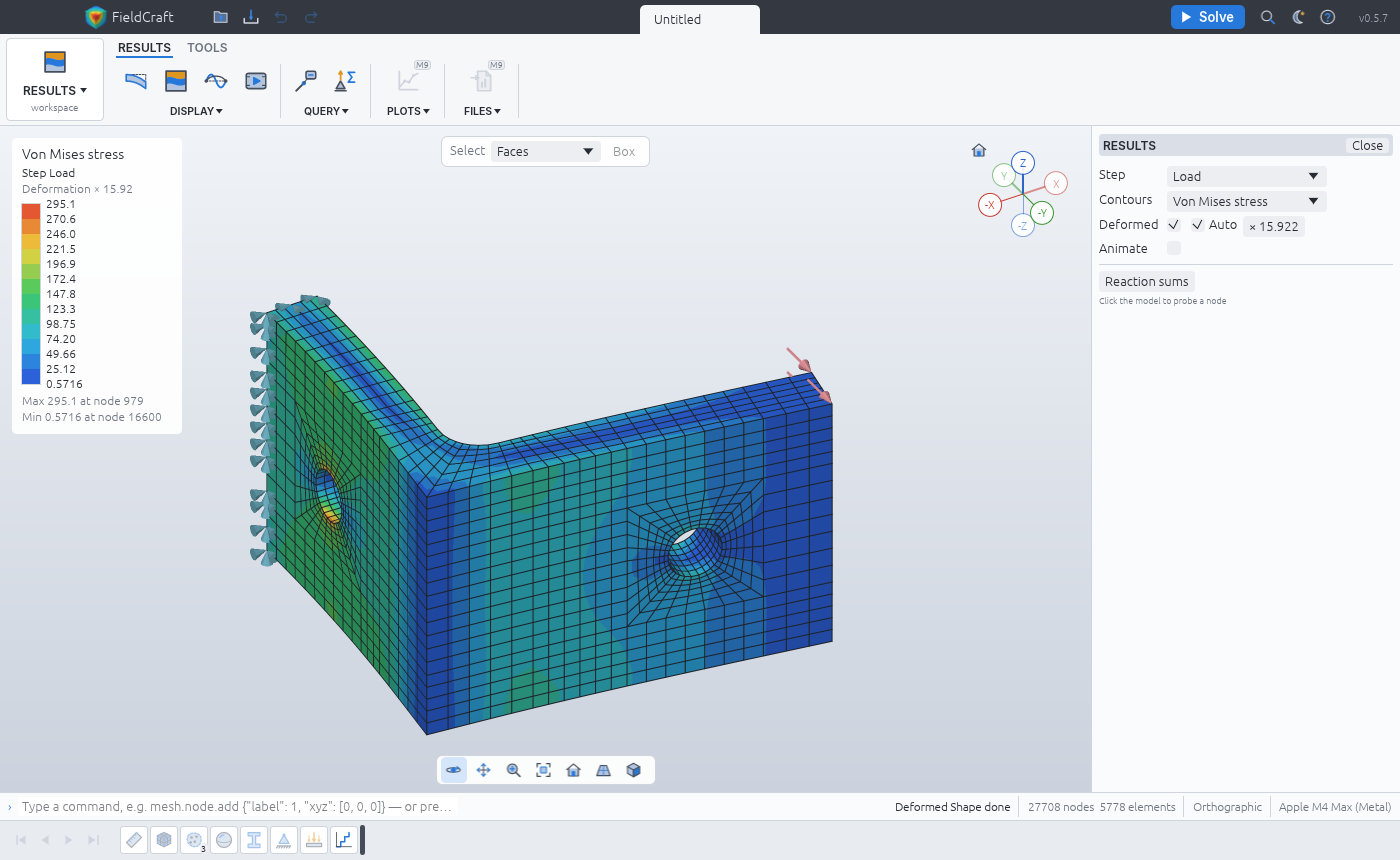
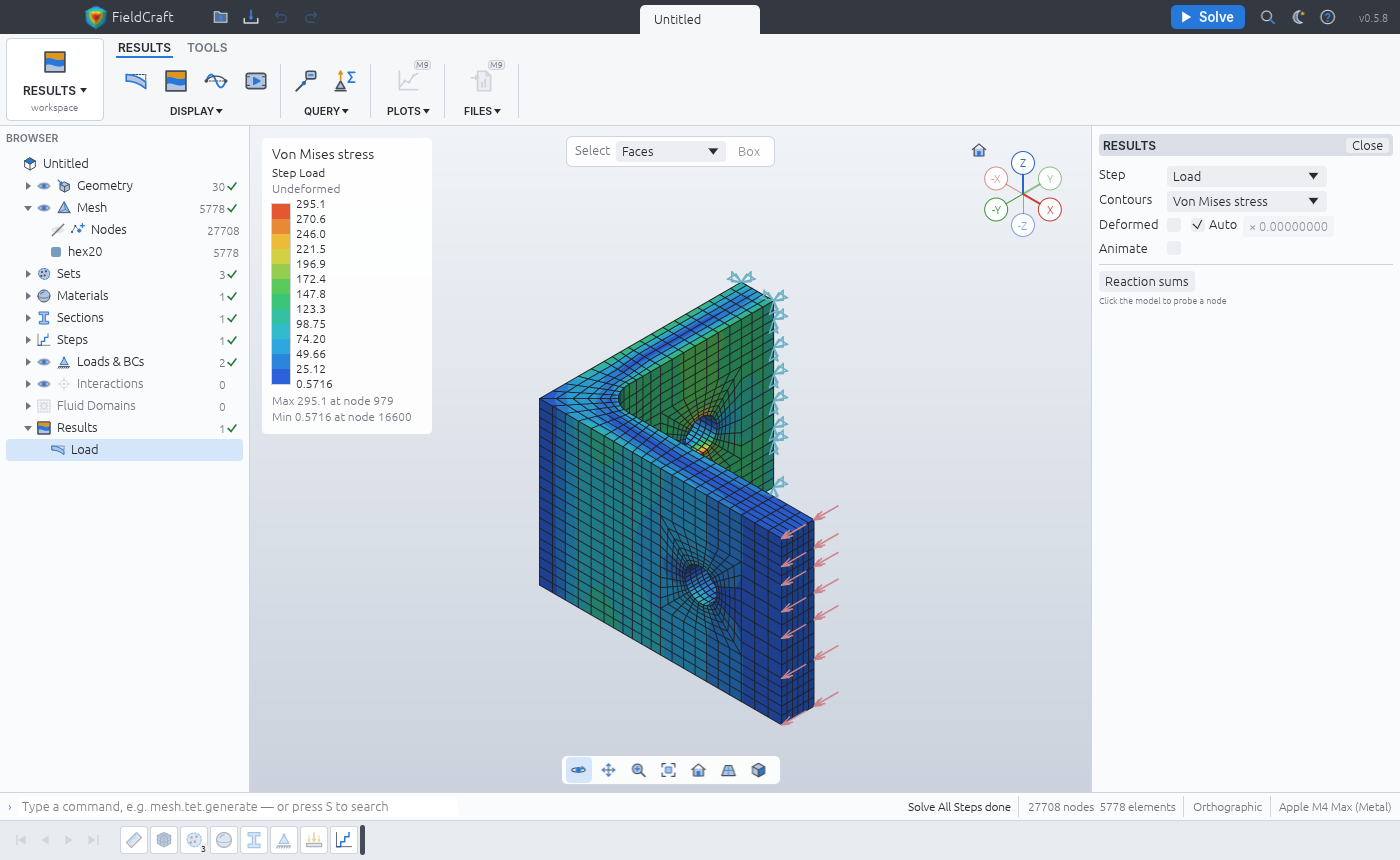
Gallery: every example image captured again on the current build
All six docs/media/examples images at 1400 x 860 in the light theme, the
solved sample in the home view (the crank mirror from below, as its text
says), with the wireframe symbols, no SETUP card and the crank's planes
hidden; the Start card thumbnails cropped to the model from them.

Claude-Session: https://claude.ai/code/session_01UhhZMBTviDQxZvwnyP89fo

diff --git a/ATTRIBUTION.md b/ATTRIBUTION.md
@@ -24,12 +24,12 @@ is committed and listed here with its exports.
 | docs/media/examples/bracket-hex.png | FieldCraft contributors | Original: the FieldCraft window captured (`ui.capture`) with the solved bracket-hex sample (docs/examples.md) | MIT OR Apache-2.0 |
 | docs/media/examples/crank-arm.png | FieldCraft contributors | Original: the FieldCraft window captured (`ui.capture`) with the solved crank-arm sample (docs/examples.md) | MIT OR Apache-2.0 |
 | docs/media/examples/crank-mirror.png | FieldCraft contributors | Original: the FieldCraft window captured (`ui.capture`) with the solved crank-mirror sample (docs/examples.md) | MIT OR Apache-2.0 |
-| crates/ui-egui/thumbnails/bracket-hex.png | FieldCraft contributors | Original: the viewport of docs/media/examples/bracket-hex.png cropped and scaled to 320 px wide (ImageMagick, 128-colour palette), the bracket-hex sample's thumbnail on the Start card | MIT OR Apache-2.0 |
-| crates/ui-egui/thumbnails/crank-arm.png | FieldCraft contributors | Original: the viewport of docs/media/examples/crank-arm.png cropped and scaled to 320 px wide (ImageMagick, 128-colour palette), the crank-arm sample's thumbnail on the Start card | MIT OR Apache-2.0 |
-| crates/ui-egui/thumbnails/crank-mirror.png | FieldCraft contributors | Original: the viewport of docs/media/examples/crank-mirror.png cropped and scaled to 320 px wide (ImageMagick, 128-colour palette), the crank-mirror sample's thumbnail on the Start card | MIT OR Apache-2.0 |
-| crates/ui-egui/thumbnails/drop-test.png | FieldCraft contributors | Original: the viewport of docs/media/examples/drop-test.png cropped and scaled to 320 px wide (ImageMagick, 128-colour palette), the drop-test sample's thumbnail on the Start card | MIT OR Apache-2.0 |
-| crates/ui-egui/thumbnails/heated-bracket.png | FieldCraft contributors | Original: the viewport of docs/media/examples/heated-bracket.png cropped and scaled to 320 px wide (ImageMagick, 128-colour palette), the heated-bracket sample's thumbnail on the Start card | MIT OR Apache-2.0 |
-| crates/ui-egui/thumbnails/rubber-seal.png | FieldCraft contributors | Original: the viewport of docs/media/examples/rubber-seal.png cropped and scaled to 320 px wide (ImageMagick, 128-colour palette), the rubber-seal sample's thumbnail on the Start card | MIT OR Apache-2.0 |
+| crates/ui-egui/thumbnails/bracket-hex.png | FieldCraft contributors | Original: the viewport of docs/media/examples/bracket-hex.png cropped to the model and scaled to 320 px wide (ImageMagick, 128-colour palette), the bracket-hex sample's thumbnail on the Start card | MIT OR Apache-2.0 |
+| crates/ui-egui/thumbnails/crank-arm.png | FieldCraft contributors | Original: the viewport of docs/media/examples/crank-arm.png cropped to the model and scaled to 320 px wide (ImageMagick, 128-colour palette), the crank-arm sample's thumbnail on the Start card | MIT OR Apache-2.0 |
+| crates/ui-egui/thumbnails/crank-mirror.png | FieldCraft contributors | Original: the viewport of docs/media/examples/crank-mirror.png cropped to the model and scaled to 320 px wide (ImageMagick, 128-colour palette), the crank-mirror sample's thumbnail on the Start card | MIT OR Apache-2.0 |
+| crates/ui-egui/thumbnails/drop-test.png | FieldCraft contributors | Original: the viewport of docs/media/examples/drop-test.png cropped to the model and scaled to 320 px wide (ImageMagick, 128-colour palette), the drop-test sample's thumbnail on the Start card | MIT OR Apache-2.0 |
+| crates/ui-egui/thumbnails/heated-bracket.png | FieldCraft contributors | Original: the viewport of docs/media/examples/heated-bracket.png cropped to the model and scaled to 320 px wide (ImageMagick, 128-colour palette), the heated-bracket sample's thumbnail on the Start card | MIT OR Apache-2.0 |
+| crates/ui-egui/thumbnails/rubber-seal.png | FieldCraft contributors | Original: the viewport of docs/media/examples/rubber-seal.png cropped to the model and scaled to 320 px wide (ImageMagick, 128-colour palette), the rubber-seal sample's thumbnail on the Start card | MIT OR Apache-2.0 |
 | crates/decks/tests/golden/nastran/*.bdf | FieldCraft contributors | Written by our Nastran writer from our own test models (crates/decks/tests/nastran.rs) | MIT OR Apache-2.0 |
 | assets/icons/assembly.instance.svg, assets/icons/assembly.instance.vectorcraft | FieldCraft contributors | Original toolbar icon drawn with VectorCraft from `assets/icons/src/assembly.instance.json` (`cargo xtask icons`) | MIT OR Apache-2.0 |
 | assets/icons/deck.read.svg, assets/icons/deck.read.vectorcraft | FieldCraft contributors | Original toolbar icon drawn with VectorCraft from `assets/icons/src/deck.read.json` (`cargo xtask icons`) | MIT OR Apache-2.0 |
